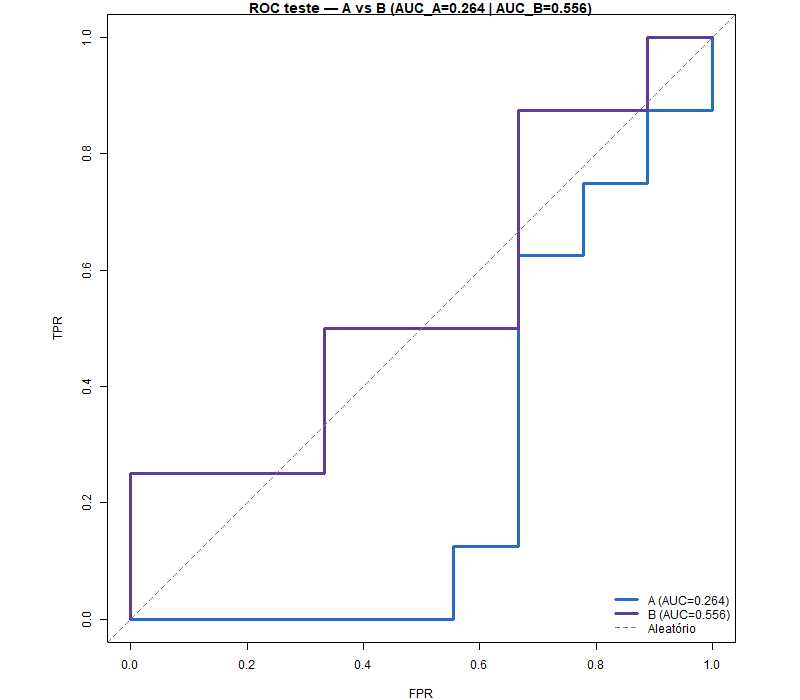
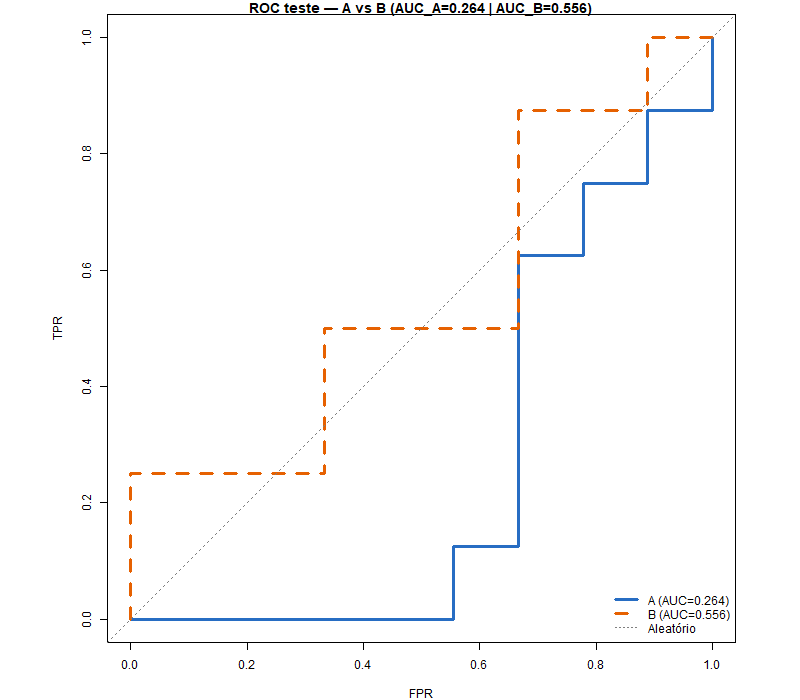
script 6 .R atualizado

Changed region(s): [[0.4062, 0.06, 0.8125, 0.48], [0.1562, 0.66, 0.4062, 0.87], [0.8125, 0.03, 0.875, 0.06]]

diff --git a/estrutura/scriptsR/06-regressao-logistica-treino-teste.md b/estrutura/scriptsR/06-regressao-logistica-treino-teste.md
@@ -1,7 +1,7 @@
 # Relatório da Atividade 06 — Classificação
 
 **Gerado por:** `06-regressao-logistica-treino-teste.R`  
-**Data:** 2026-10-08 21:09:58  
+**Data:** 2026-10-09 03:44:54  
 **Origem:** `../bancoDeDados/df_ipdm_baixada_por_municipio.csv`  
 
 > **Alvo:** `mortalidade_alta` = 1 se mortalidade > mediana do TREINO.
